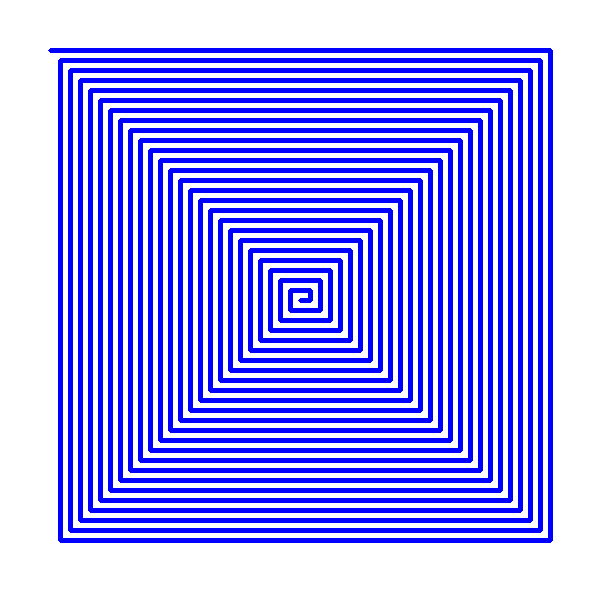
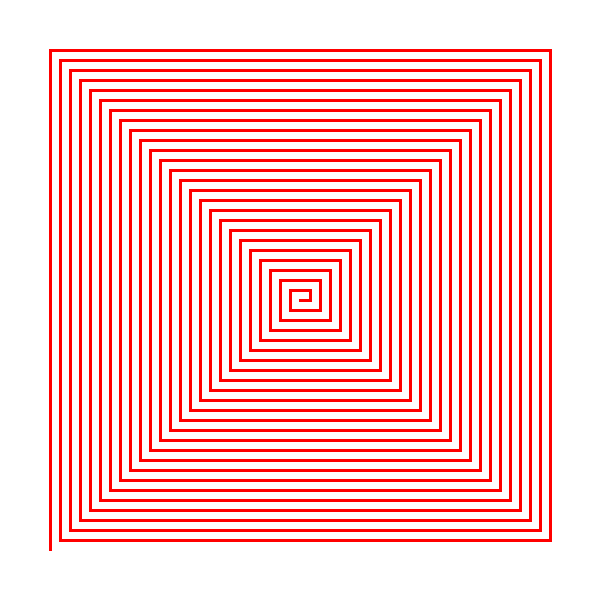
changed opencv_2

diff --git a/opencv_1/main2.cpp b/opencv_1/main2.cpp
@@ -1,79 +1,97 @@
 #include <opencv2/opencv.hpp>
-#include <iostream>
 #include <vector>
+#include <cmath> 
 
 struct Config {
     int width = 600;
     int height = 600;
     int thickness = 3;
     int step = 10;
-    cv::Scalar color = cv::Scalar(255, 0, 0);
+    unsigned char color[3] = {255, 0, 0}; 
 };
 
 void parseArguments(int argc, char** argv, Config& cfg) {
     for (int i = 1; i < argc; ++i) {
         std::string arg = argv[i];
-        if (arg == "--width" && i + 1 < argc) cfg.width = std::stoi(argv[++i]);
-        else if (arg == "--height" && i + 1 < argc) cfg.height = std::stoi(argv[++i]);
-        else if (arg == "--thick" && i + 1 < argc) cfg.thickness = std::stoi(argv[++i]);
-        else if (arg == "--step" && i + 1 < argc) cfg.step = std::stoi(argv[++i]);
+        if (arg == "--width" && i + 1 < argc) cfg.width = std::atoi(argv[++i]);
+        else if (arg == "--height" && i + 1 < argc) cfg.height = std::atoi(argv[++i]);
+        else if (arg == "--thick" && i + 1 < argc) cfg.thickness = std::atoi(argv[++i]);
+        else if (arg == "--step" && i + 1 < argc) cfg.step = std::atoi(argv[++i]);
         else if (arg == "--color" && i + 1 < argc) {
             std::string colorStr = argv[++i];
             size_t c1 = colorStr.find(','), c2 = colorStr.rfind(',');
-            cfg.color = cv::Scalar(
-                std::stoi(colorStr.substr(0, c1)),
-                std::stoi(colorStr.substr(c1+1, c2-c1-1)),
-                std::stoi(colorStr.substr(c2+1))
-            );
+            cfg.color[0] = std::atoi(colorStr.substr(c2+1).c_str()); 
+            cfg.color[1] = std::atoi(colorStr.substr(c1+1, c2-c1-1).c_str());
+            cfg.color[2] = std::atoi(colorStr.substr(0, c1).c_str()); 
+        }
+    }
+}
+
+void drawPixel(cv::Mat& img, int x, int y, const unsigned char color[3]) { //установка цвета конкретного пикселя
+    if (x >= 0 && x < img.cols && y >= 0 && y < img.rows) {
+        unsigned char* pixel = img.data + y * img.step + x * 3;
+        pixel[0] = color[0]; 
+        pixel[1] = color[1];
+        pixel[2] = color[2];
+    }
+}
+
+void drawLine(cv::Mat& img, cv::Point p1, cv::Point p2, 
+                   const unsigned char color[3], int thickness) {
+    // вычисляем длину линии
+    float length = std::max(abs(p2.x - p1.x), abs(p2.y - p1.y));
+    
+    //рисуем каждый пиксель вдоль линии
+    for (float t = 0; t <= 1.0; t += 1.0/length) {
+        int x = p1.x + t * (p2.x - p1.x);
+        int y = p1.y + t * (p2.y - p1.y);
+        
+        //рисуем пиксель с учетом толщины
+        for (int dy = -thickness/2; dy <= thickness/2; dy++) {
+            for (int dx = -thickness/2; dx <= thickness/2; dx++) {
+                drawPixel(img, x + dx, y + dy, color);
+            }
         }
     }
 }
 
 void drawAngledSpiral(cv::Mat& img, const Config& cfg) {
     cv::Point center(cfg.width/2, cfg.height/2);
-    std::vector<cv::Point> points;
+    cv::Point current = center;
     
-    int segments = 4; // Количество прямых отрезков на один виток
     int segment_length = cfg.step;
-    int direction = 0; // 0=вправо, 1=вверх, 2=влево, 3=вниз
-    
-    points.push_back(center);
-    
-    for (int i = 1; i < 100; ++i) { // 100 - максимальное количество точек
-        cv::Point last = points.back();
-        cv::Point next = last;
+    for (int dir = 0, i = 0; i < 100; dir++, i++) {
+        cv::Point next = current;
         
-        switch (direction % 4) {
-            case 0: next.x += segment_length; break; // вправо
-            case 1: next.y -= segment_length; break; // вверх
-            case 2: next.x -= segment_length; break; // влево
-            case 3: next.y += segment_length; break; // вниз
+        switch(dir % 4) {
+            case 0: next.x += segment_length; break;
+            case 1: next.y -= segment_length; break; 
+            case 2: next.x -= segment_length; break; 
+            case 3: next.y += segment_length; break;
         }
         
-        points.push_back(next);
+        drawLine(img, current, next, cfg.color, cfg.thickness);
+        current = next;
         
-        // Увеличиваем длину отрезка после каждых двух поворотов
-        if (i % 2 == 0) segment_length += cfg.step;
-        
-        direction++;
-    }
-    
-    // Рисуем ломаную линию
-    for (size_t i = 1; i < points.size(); ++i) {
-        cv::line(img, points[i-1], points[i], cfg.color, cfg.thickness);
+        if (i % 2 == 1) segment_length += cfg.step;
     }
 }
 
 int main(int argc, char** argv) {
     Config cfg;
     parseArguments(argc, argv, cfg);
-    
-    cv::Mat image(cfg.height, cfg.width, CV_8UC3, cv::Scalar(255, 255, 255));
+
+    cv::Mat image(cfg.height, cfg.width, CV_8UC3);
+    for (int y = 0; y < image.rows; y++) {
+        for (int x = 0; x < image.cols; x++) {
+            unsigned char* pixel = image.data + y * image.step + x * 3;
+            pixel[0] = 255; 
+            pixel[1] = 255; 
+            pixel[2] = 255;
+        }
+    }
     drawAngledSpiral(image, cfg);
-    
     cv::imwrite("spiral.png", image);
-    cv::imshow("Spiral", image);
-    cv::waitKey(0);
     
     return 0;
 }

diff --git a/opencv_1/main.cpp b/opencv_1/main.cpp
@@ -20,26 +20,26 @@ void parseArguments(int argc, char** argv, int& rows, int& cols, int& cellSize) 
     }
 }
 
+void drawChessManual(cv::Mat& img, int rows, int cols, int cellSize) {
+    for (int y = 0; y < rows * cellSize; y++) {
+        int cellY = y / cellSize;
+        for (int x = 0; x < cols * cellSize; x++) {
+            int cellX = x / cellSize;
+            bool isWhite = (cellY + cellX) % 2 == 0;
+            img.data[y * img.step + x * 3 + 0] = isWhite ? 255 : 0; 
+            img.data[y * img.step + x * 3 + 1] = isWhite ? 255 : 0;
+            img.data[y * img.step + x * 3 + 2] = isWhite ? 255 : 0;
+        }
+    }
+}
+
 int main(int argc, char** argv) {
     int rows, cols, cellSize;
     parseArguments(argc, argv, rows, cols, cellSize);
     
-    cv::Mat chessboard(rows * cellSize, cols * cellSize, CV_8UC3, cv::Scalar::all(255));
-    
-    for (int i = 0; i < rows; i++) {
-        for (int j = 0; j < cols; j++) {
-            cv::Scalar color = (i + j) % 2 == 0 ? cv::Scalar(255, 255, 255) : cv::Scalar(0, 0, 0);
-            cv::rectangle(chessboard,
-                        cv::Point(j * cellSize, i * cellSize),
-                        cv::Point((j + 1) * cellSize, (i + 1) * cellSize),
-                        color,
-                        cv::FILLED);
-        }
-    }
+    cv::Mat chessboard(rows*cellSize, cols*cellSize, CV_8UC3);
+    drawChessManual(chessboard, rows, cols, cellSize);
     
     cv::imwrite("chessboard.png", chessboard);
-    cv::imshow("Chessboard", chessboard);
-    cv::waitKey(0);
-    
     return 0;
 }

diff --git a/opencv_1/README.md b/opencv_1/README.md
@@ -6,7 +6,6 @@
 #include <string>
 #include <vector>
 
-//считываем аргументы из консоли(парсинг), по умолчанию задаем доску 8*8
 void parseArguments(int argc, char** argv, int& rows, int& cols, int& cellSize) {
     rows = 8;
     cols = 8;
@@ -15,7 +14,7 @@ void parseArguments(int argc, char** argv, int& rows, int& cols, int& cellSize) 
     for (int i = 1; i < argc; i++) {
         std::string arg = argv[i];
         if (arg == "--rows" && i + 1 < argc) {
-            rows = std::stoi(argv[++i]); //преобразование строки в число
+            rows = std::stoi(argv[++i]);
         } else if (arg == "--cols" && i + 1 < argc) {
             cols = std::stoi(argv[++i]);
         } else if (arg == "--cell" && i + 1 < argc) {
@@ -24,23 +23,29 @@ void parseArguments(int argc, char** argv, int& rows, int& cols, int& cellSize) 
     }
 }
 
+void drawChessManual(cv::Mat& img, int rows, int cols, int cellSize) {
+    for (int y = 0; y < rows * cellSize; y++) {
+        int cellY = y / cellSize; // определения номера строки клетки
+
+        for (int x = 0; x < cols * cellSize; x++) { //проход по столбцам
+            int cellX = x / cellSize; // определение номера столбца
+            bool isWhite = (cellY + cellX) % 2 == 0; // определение цвета клетки
+            // для белой клетки - все каналы 255, для черной - 0
+            img.data[y * img.step + x * 3 + 0] = isWhite ? 255 : 0; 
+            img.data[y * img.step + x * 3 + 1] = isWhite ? 255 : 0;
+            img.data[y * img.step + x * 3 + 2] = isWhite ? 255 : 0;
+        }
+    }
+}
+
 int main(int argc, char** argv) {
     int rows, cols, cellSize;
     parseArguments(argc, argv, rows, cols, cellSize);
     
-    cv::Mat chessboard(rows * cellSize, cols * cellSize, CV_8UC3, cv::Scalar::all(255)); //создание матрицы нужного размера
+    cv::Mat chessboard(rows*cellSize, cols*cellSize, CV_8UC3);
+    drawChessManual(chessboard, rows, cols, cellSize);
     
-    for (int i = 0; i < rows; i++) {
-        for (int j = 0; j < cols; j++) {
-            cv::Scalar color = (i + j) % 2 == 0 ? cv::Scalar(255, 255, 255) : cv::Scalar(0, 0, 0);// сумма индексов четная - белый цвет, сумма индексов нечетная - черный цвет
-            cv::rectangle(chessboard, cv::Point(j * cellSize, i * cellSize), cv::Point((j + 1) * cellSize, (i + 1) * cellSize), color, cv::FILLED); //рисуем клетку нужного цвета
-        }
-    }
-    
-    cv::imwrite("chessboard.png", chessboard); //название картинки
-    cv::imshow("Chessboard", chessboard); //имя, которое показывается при открытии
-    cv::waitKey(0);
-    
+    cv::imwrite("chessboard.png", chessboard);
     return 0;
 }
 ```
@@ -69,83 +74,99 @@ g++ main.cpp -o chessboard `pkg-config --cflags --libs opencv4`
 
 ```c++
 #include <opencv2/opencv.hpp>
-#include <iostream>
 #include <vector>
+#include <cmath> 
 
 struct Config {
     int width = 600;
     int height = 600;
-    int thick = 3;
+    int thickness = 3;
     int step = 10;
-    cv::Scalar color = cv::Scalar(255, 0, 0);
+    unsigned char color[3] = {255, 0, 0}; 
 };
 
-//считывание аргументов
 void parseArguments(int argc, char** argv, Config& cfg) {
     for (int i = 1; i < argc; ++i) {
         std::string arg = argv[i];
-        if (arg == "--width" && i + 1 < argc) cfg.width = std::stoi(argv[++i]);
-        else if (arg == "--height" && i + 1 < argc) cfg.height = std::stoi(argv[++i]);
-        else if (arg == "--thick" && i + 1 < argc) cfg.thickness = std::stoi(argv[++i]);
-        else if (arg == "--step" && i + 1 < argc) cfg.step = std::stoi(argv[++i]);
+        if (arg == "--width" && i + 1 < argc) cfg.width = std::atoi(argv[++i]);
+        else if (arg == "--height" && i + 1 < argc) cfg.height = std::atoi(argv[++i]);
+        else if (arg == "--thick" && i + 1 < argc) cfg.thickness = std::atoi(argv[++i]);
+        else if (arg == "--step" && i + 1 < argc) cfg.step = std::atoi(argv[++i]);
         else if (arg == "--color" && i + 1 < argc) {
             std::string colorStr = argv[++i];
             size_t c1 = colorStr.find(','), c2 = colorStr.rfind(',');
-            cfg.color = cv::Scalar(
-                std::stoi(colorStr.substr(0, c1)),
-                std::stoi(colorStr.substr(c1+1, c2-c1-1)),
-                std::stoi(colorStr.substr(c2+1))
-            );
+            cfg.color[0] = std::atoi(colorStr.substr(c2+1).c_str()); 
+            cfg.color[1] = std::atoi(colorStr.substr(c1+1, c2-c1-1).c_str());
+            cfg.color[2] = std::atoi(colorStr.substr(0, c1).c_str()); 
         }
     }
 }
 
-//рисуем спираль
-void drawAngledSpiral(cv::Mat& img, const Config& cfg) {
-    cv::Point center(cfg.width/2, cfg.height/2);//центр изображения
-    std::vector<cv::Point> points;//вектор для хранения точек спирали
+void drawPixel(cv::Mat& img, int x, int y, const unsigned char color[3]) { //установка цвета конкретного пикселя
+    if (x >= 0 && x < img.cols && y >= 0 && y < img.rows) {
+        unsigned char* pixel = img.data + y * img.step + x * 3;
+        pixel[0] = color[0]; 
+        pixel[1] = color[1];
+        pixel[2] = color[2];
+    }
+}
+
+void drawLine(cv::Mat& img, cv::Point p1, cv::Point p2, 
+                   const unsigned char color[3], int thickness) {
+    // вычисляем длину линии
+    float length = std::max(abs(p2.x - p1.x), abs(p2.y - p1.y));
     
-    int segments = 4; //4 направления: вправо, вверх, влево, вниз
-    int segment_length = cfg.step; //начальная длина отрезка
-    int direction = 0; // 0=вправо, 1=вверх, 2=влево, 3=вниз
-    
-    points.push_back(center); //начинаем с центра
-    
-    for (int i = 1; i < 100; ++i) {
-        cv::Point last = points.back(); //крайняя точка
-        cv::Point next = last;//новая точка
+    //рисуем каждый пиксель вдоль линии
+    for (float t = 0; t <= 1.0; t += 1.0/length) {
+        int x = p1.x + t * (p2.x - p1.x);
+        int y = p1.y + t * (p2.y - p1.y);
         
-        switch (direction % 4) { //выбор направления 
-            case 0: next.x += segment_length; break; // вправо
-            case 1: next.y -= segment_length; break; // вверх
-            case 2: next.x -= segment_length; break; // влево
-            case 3: next.y += segment_length; break; // вниз
+        //рисуем пиксель с учетом толщины
+        for (int dy = -thickness/2; dy <= thickness/2; dy++) {
+            for (int dx = -thickness/2; dx <= thickness/2; dx++) {
+                drawPixel(img, x + dx, y + dy, color);
+            }
+        }
+    }
+}
+
+void drawAngledSpiral(cv::Mat& img, const Config& cfg) {
+    cv::Point center(cfg.width/2, cfg.height/2);
+    cv::Point current = center;
+    
+    int segment_length = cfg.step;
+    for (int dir = 0, i = 0; i < 100; dir++, i++) {
+        cv::Point next = current;
+        
+        switch(dir % 4) {
+            case 0: next.x += segment_length; break;
+            case 1: next.y -= segment_length; break; 
+            case 2: next.x -= segment_length; break; 
+            case 3: next.y += segment_length; break;
         }
         
-        points.push_back(next); //добавляем новую точку
+        drawLine(img, current, next, cfg.color, cfg.thickness);
+        current = next;
         
-        //увеличиваем длину отрезка после каждых двух поворотов
-        if (i % 2 == 0) segment_length += cfg.step;
-        
-        direction++;
-    }
-    
-    //рисуем ломаную линию
-    for (size_t i = 1; i < points.size(); ++i) {
-        cv::line(img, points[i-1], points[i], cfg.color, cfg.thick);
+        if (i % 2 == 1) segment_length += cfg.step;
     }
 }
 
 int main(int argc, char** argv) {
     Config cfg;
     parseArguments(argc, argv, cfg);
-    
-    cv::Mat image(cfg.height, cfg.width, CV_8UC3, cv::Scalar(255, 255, 255));
+
+    cv::Mat image(cfg.height, cfg.width, CV_8UC3);
+    for (int y = 0; y < image.rows; y++) {
+        for (int x = 0; x < image.cols; x++) {
+            unsigned char* pixel = image.data + y * image.step + x * 3;
+            pixel[0] = 255; 
+            pixel[1] = 255; 
+            pixel[2] = 255;
+        }
+    }
     drawAngledSpiral(image, cfg);
-    
     cv::imwrite("spiral.png", image);
-    cv::imshow("Spiral", image);
-    cv::waitKey(0);
     
     return 0;
 }
@@ -161,10 +182,10 @@ g++ main2.cpp -o spiral  `pkg-config --cflags --libs opencv4`
 
 ![1](spiral1.png)
 
---width 200 --height 200 --thick 1 --step 15 --color 200,200,200
+--width 200 --height 200 --thick 5 --step 15 --color 100,100,100
 
 ![2](spiral2.png)
 
---width 800 --height 800 --thick 5 --step 10 --color 100,100,100
+--width 800 --height 800 --thick 10 --step 15 --color 150,100,150
 
 ![3](spiral3.png)
